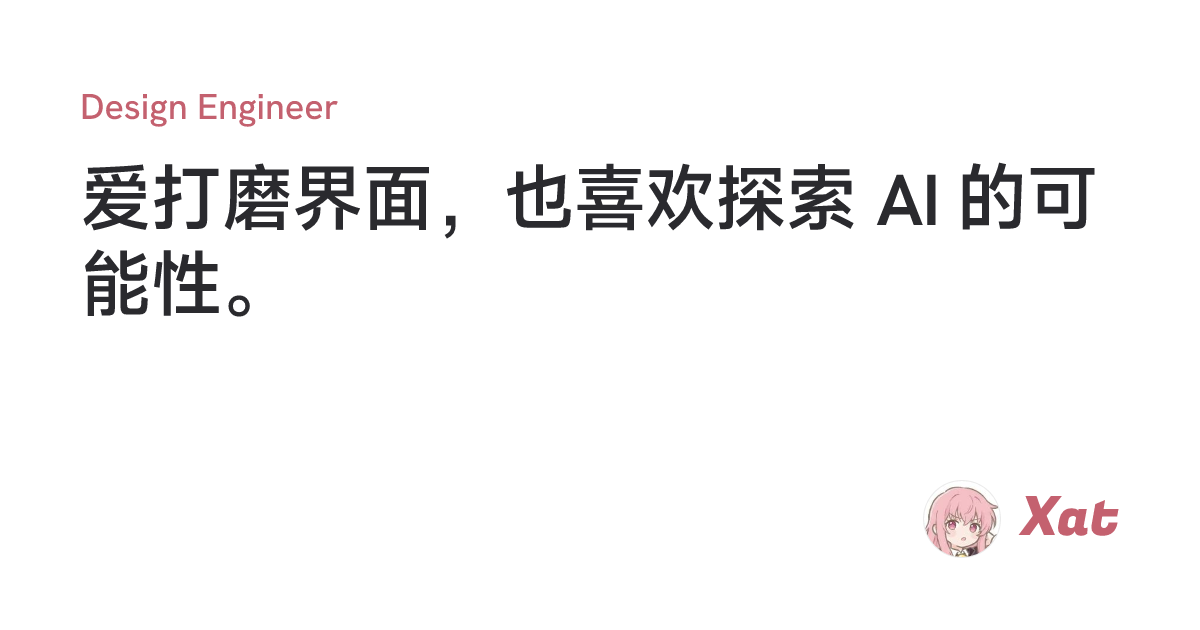
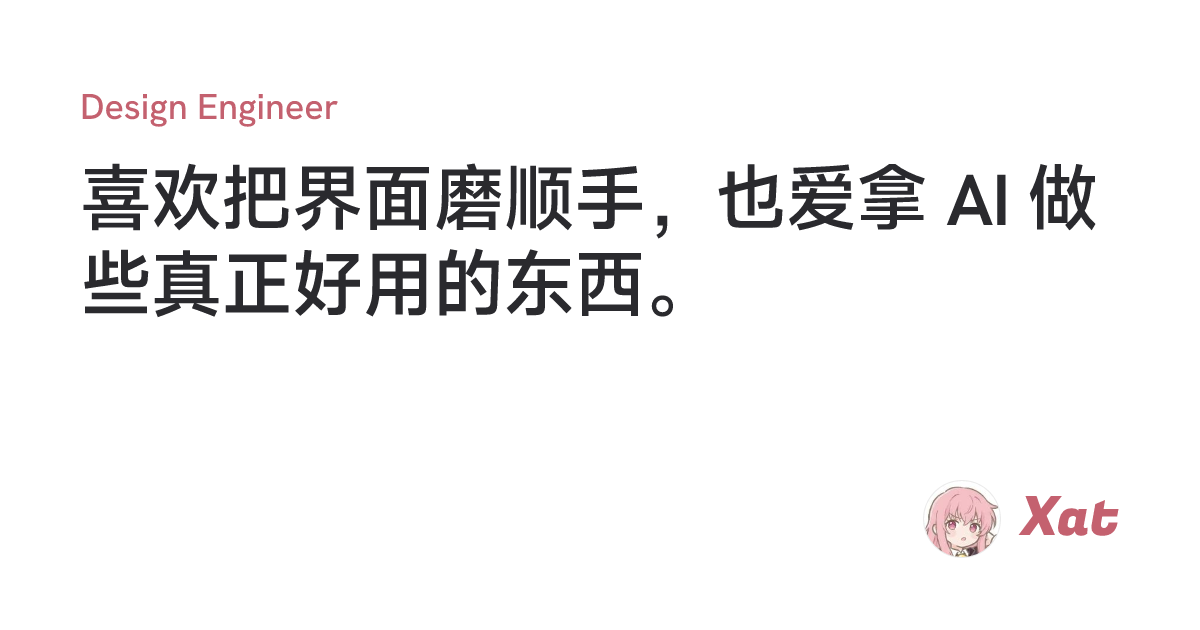
chore(copy): tighten trilingual site copy and refresh OG images
Rewrite overly generic or translated copy across zh, en, and ja: home
bio lead, intro badges and popovers, meta/OG descriptions, translation
notices, resume summaries, post summaries/seoDescriptions, 404 copy,
console greeting, and English footer stats/avatar poke lines.
Regenerate the affected default, design, and 404 OG images.

Amp-Thread-ID: https://ampcode.com/threads/T-01a1f790-86ab-71bd-a3b4-a479a0b53b71

Changed region(s): [[0.0617, 0.2413, 0.925, 0.5127], [0.0617, 0.2413, 0.2467, 0.3619]]

diff --git a/src/lib/i18n/messages/en.ts b/src/lib/i18n/messages/en.ts
@@ -12,8 +12,8 @@ const en: Messages = {
 		pageTitle: 'Xat\'s Archive',
 		postCountSuffix: ' posts',
 		postTranslatedNotice: {
-			afterLink: ' to read the author-written source text.',
-			beforeLink: 'This article is an AI translation from the Chinese original. Switch the site language to ',
+			afterLink: ' if you prefer reading the original.',
+			beforeLink: 'Translated by AI from the Chinese original. Switch to ',
 			switchToChineseAriaLabel: 'Switch site language to Chinese for the original article',
 		},
 		readingTime: (minutes: number) => `${minutes} min read`,
@@ -129,7 +129,7 @@ const en: Messages = {
 			slow: '0.25×',
 			title: 'Motion',
 		},
-		pageDescription: 'The design system behind xat.sh: typography, color tokens, trilingual line breaking, layers, and motion.',
+		pageDescription: 'The design system for xat.sh: typography, color tokens, trilingual wrapping, shape, and motion, all read live from CSS.',
 		pageTitle: 'Design System - Xat',
 		typography: {
 			families: {
@@ -168,11 +168,11 @@ const en: Messages = {
 		emailCopied: 'Copied!',
 		moeIcp: 'Moe ICP Filing No. 20264698',
 		stats: {
-			afterOnline: ' wandering by',
-			afterTotal: ' times',
-			alone: 'Right now, it\'s just you wandering by',
-			beforeOnline: 'Right now, ',
-			beforeTotal: 'Spotted ',
+			afterOnline: 'here right now',
+			afterTotal: 'times',
+			alone: 'Just you here right now',
+			beforeOnline: '',
+			beforeTotal: 'Visited',
 		},
 	},
 	header: {
@@ -185,25 +185,25 @@ const en: Messages = {
 		},
 	},
 	home: {
-		bioLead: 'I love polishing interfaces and exploring what AI can do.',
+		bioLead: 'I like sweating the UI details and building AI tools that actually feel good to use.',
 		introAfterProducts: '.',
-		introBeforeSystems: 'A ',
-		introBetweenBadges: ' taught me to balance design, engineering, and real needs while building ',
+		introBeforeSystems: 'My ',
+		introBetweenBadges: ' shapes how I think about structure; these days I mostly build frontend and ',
 		metaDescription:
-			'Design Engineer focused on AI and frontend, writing about code, design, and AI.',
+			'Xat, a Design Engineer working on frontend and AI products, writing about code, interfaces, and everyday tools.',
 		notFound: {
-			description: 'Maybe it moved, maybe it was never here. Here\'s some recent writing instead.',
+			description: 'The link may have moved or had a typo. Here\'s some recent writing instead.',
 			didYouMean: {
 				after: '”?',
 				before: 'Maybe you meant “',
 			},
-			title: 'This page wandered off',
+			title: 'Nothing at this address',
 		},
 		playName: 'Play name pronunciation',
 		poke: {
 			label: 'Poke Xat',
-			lines: ['Hey!', 'Yes?', 'That tickles', 'Okay, okay'],
-			sulk: 'Hmph. Not talking to you.',
+			lines: ['Hey!', 'Yeah?', 'Easy there', 'Okay, okay'],
+			sulk: 'Alright, I\'m ignoring you now.',
 		},
 		projectsEyebrow: 'Projects',
 		role: 'Design Engineer',

diff --git a/src/lib/i18n/messages/ja.ts b/src/lib/i18n/messages/ja.ts
@@ -12,8 +12,8 @@ const ja: Messages = {
 		pageTitle: 'Xat のアーカイブ置き場',
 		postCountSuffix: ' 本',
 		postTranslatedNotice: {
-			afterLink: 'に切り替えると著者による原文を読めます。',
-			beforeLink: 'この記事は中国語の原文をAIが翻訳したものです。サイトの言語を',
+			afterLink: 'に切り替えてください。',
+			beforeLink: 'この記事は中国語の原文をもとに AI が翻訳したものです。原文で読む場合は',
 			switchToChineseAriaLabel: 'サイトの表示言語を中文に切り替えて原文を表示する',
 		},
 		readingTime: (minutes: number) => `約 ${minutes} 分`,
@@ -129,7 +129,7 @@ const ja: Messages = {
 			slow: '0.25×',
 			title: 'モーション',
 		},
-		pageDescription: 'xat.sh を支えるデザインシステム。タイポグラフィ、カラートークン、三言語の組版、レイヤー、モーション。',
+		pageDescription: 'xat.sh のデザインシステム。タイポグラフィ、配色、三言語の組版、角丸と影、モーションまで、実行中の CSS からそのまま表示しています。',
 		pageTitle: 'Design System - Xat',
 		typography: {
 			families: {
@@ -185,19 +185,19 @@ const ja: Messages = {
 		},
 	},
 	home: {
-		bioLead: 'インターフェースを磨くのも、AI の可能性を探るのも好き。',
-		introAfterProducts: 'を形にする。',
+		bioLead: 'UI の細部を磨くのも、ちゃんと使いやすい AI ツールを作るのも好き。',
+		introAfterProducts: 'を作っています。',
 		introBeforeSystems: '',
-		introBetweenBadges: 'のおかげで、デザイン・実装・本当のニーズの間でバランスを取りながら、',
+		introBetweenBadges: 'から構造で考える癖がついていて、今はフロントエンドと',
 		metaDescription:
-			'AI とフロントエンドを軸に活動するデザインエンジニア。コード、デザイン、AI について書いています。',
+			'フロントエンドと AI プロダクトを作るデザインエンジニア、Xat の個人サイト。コードや UI、日々のメモを書いています。',
 		notFound: {
-			description: '引っ越したのか、最初からなかったのか。かわりに最近書いたものをどうぞ。',
+			description: 'リンクが変わったか、打ち間違いかもしれません。かわりに最近の記事をどうぞ。',
 			didYouMean: {
 				after: '」？',
 				before: 'もしかして「',
 			},
-			title: 'このページは迷子みたい',
+			title: 'ここには何もないみたい',
 		},
 		playName: '名前の発音を再生',
 		poke: {

diff --git a/src/lib/i18n/messages/zh.ts b/src/lib/i18n/messages/zh.ts
@@ -124,7 +124,7 @@ const zh: Messages = {
 			slow: '0.25×',
 			title: '动效',
 		},
-		pageDescription: '驱动 xat.sh 的设计系统 —— 字体、色彩、三语排版、层次与动效。',
+		pageDescription: 'xat.sh 的设计系统：字体、配色、三语排版、圆角阴影与动效，数值全部读自线上 CSS。',
 		pageTitle: '设计系统 - Xat',
 		typography: {
 			families: {
@@ -180,19 +180,19 @@ const zh: Messages = {
 		},
 	},
 	home: {
-		bioLead: '爱打磨界面，也喜欢探索 AI 的可能性。',
+		bioLead: '喜欢把界面磨顺手，也爱拿 AI 做些真正好用的东西。',
 		introAfterProducts: '。',
 		introBeforeSystems: '',
-		introBetweenBadges: '让我习惯在设计、工程与真实需求之间寻找平衡，去构建',
+		introBetweenBadges: '让我习惯从结构看问题，现在主要做前端和',
 		metaDescription:
-			'Design Engineer，专注 AI 与前端，写些关于前端、设计、AI 的文章。',
+			'Xat，Design Engineer，做前端与 AI 产品，写些关于代码、设计与日常的笔记。',
 		notFound: {
-			description: '可能搬家了，也可能从来没来过。先看看最近写的吧。',
+			description: '链接可能过期了，或者字敲错了。不如先看看最近写的文章。',
 			didYouMean: {
 				after: '》？',
 				before: '是不是在找《',
 			},
-			title: '这一页走丢了',
+			title: '这里什么也没有',
 		},
 		playName: '播放名字读音',
 		poke: {

diff --git a/src/lib/i18n/intro-badges.ts b/src/lib/i18n/intro-badges.ts
@@ -3,9 +3,9 @@ import type { Locale } from '@/lib/i18n/constants'
 export type IntroBadgeKind = 'products' | 'systems'
 
 const labels: Record<Locale, Record<IntroBadgeKind, string>> = {
-	en: { products: 'intelligent products', systems: 'systems background' },
-	ja: { products: 'インテリジェントプロダクト', systems: 'システム工学の素養' },
-	zh: { products: '智能产品', systems: '系统工程背景' },
+	en: { products: 'AI products', systems: 'systems background' },
+	ja: { products: 'AI プロダクト', systems: 'システム工学の背景' },
+	zh: { products: 'AI 产品', systems: '系统工程背景' },
 }
 
 export function getIntroBadgeLabel(locale: Locale, kind: IntroBadgeKind): string {

diff --git a/src/client/console-greeting.ts b/src/client/console-greeting.ts
@@ -1,9 +1,9 @@
 import { REPO_URL } from '@/lib/repo'
 
 const GREETING: { en: string } & Record<string, string> = {
-	en: 'Hi, you found the back door. The whole site is open source:',
-	ja: 'やあ、裏口を見つけたね。このサイトのソースはすべてここにあるよ：',
-	zh: '嗨，被你发现了。这个站点的源码都在这里：',
+	en: 'Inspecting the page? The whole site is open source here:',
+	ja: 'ソースをのぞいてる？このサイトはまるごとここで公開しています：',
+	zh: '在看源码吗？整个站点都开源在这里：',
 }
 
 /** One line for whoever opens the devtools, once per visit. */

diff --git a/src/lib/seo-data.ts b/src/lib/seo-data.ts
@@ -6,7 +6,7 @@ import { defaultOgImageUrl, pageOgImageUrl, postOgImageUrl } from '@/lib/og/path
 export const SITE_URL = 'https://xat.sh'
 export const SITE_NAME = 'Xat'
 export const DEFAULT_DESCRIPTION
-	= 'Design Engineer building AI-native products, interfaces, and frontend systems.'
+	= 'Xat, a Design Engineer working on frontend and AI products.'
 /** Direct CDN URL avoids `github.com/...png` redirect and improves LCP discovery. */
 export const PROFILE_AVATAR_SRC = 'https://avatars.githubusercontent.com/u/54651817?s=128&v=4'
 

diff --git a/src/lib/og/constants.ts b/src/lib/og/constants.ts
@@ -49,6 +49,6 @@ export const ZH_CATEGORY_NAMES: Record<string, string> = {
 
 export const OG_SITE_DEFAULT = {
 	eyebrow: 'Design Engineer',
-	summary: '爱打磨界面，也喜欢探索 AI 的可能性。',
+	summary: '喜欢把界面磨顺手，也爱拿 AI 做些真正好用的东西。',
 	title: 'Xat',
 } as const
